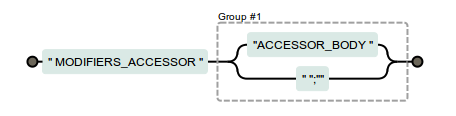
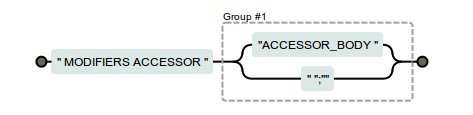
fixed accessor Declaration

Changed region(s): [[0.0307, 0.1043, 0.9518, 0.887], [0.8596, 0.2609, 0.9211, 0.3652], [0.7982, 0.1826, 0.9211, 0.2348]]

diff --git a/pages/accessorDeclaration.html b/pages/accessorDeclaration.html
@@ -29,7 +29,7 @@
 
 <p align="left">
     ACCESSOR_DECLARATION::= </br>
-    &nbsp;&nbsp;<a href="modifiersAccessor.html">MODIFIERS_ACCESSOR</a></br>
+    &nbsp;&nbsp;<a href="modifiers.html">MODIFIERS</a>&nbsp;&nbsp;<a href="accessor.html">ACCESSOR</a></br>
     &nbsp;&nbsp;(<a href="accessorBody.html">ACCESSOR_BODY</a>&nbsp;|&nbsp;";")</br>
 </p>
 </div> 
